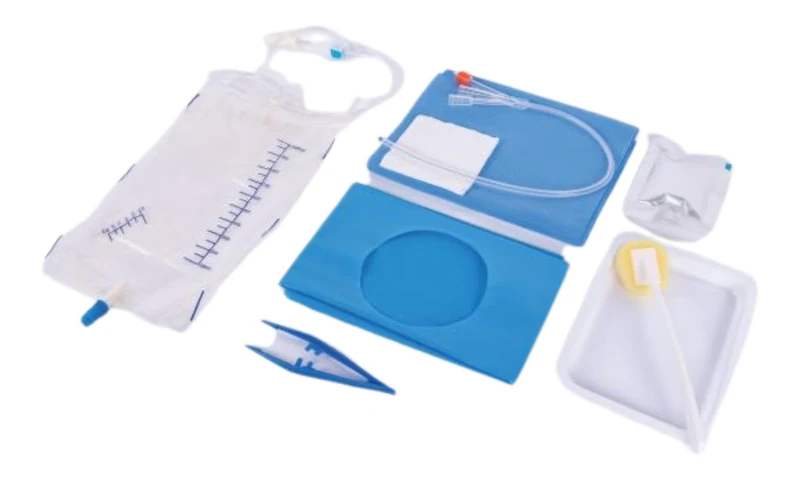
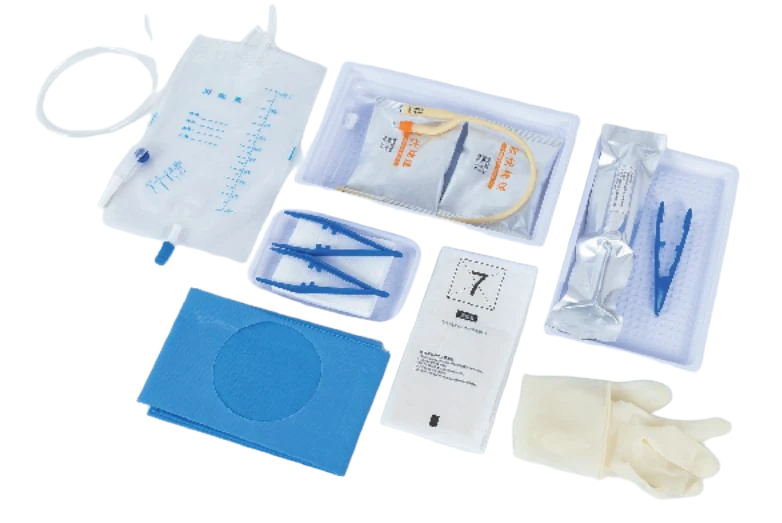
Replace QG-UR-002 kit photo with AI-matted transparent cutout

diff --git a/src/lib/products.ts b/src/lib/products.ts
@@ -794,8 +794,8 @@ export const categories: Category[] = [
       {
         code: "QG-UR-002",
         image: "/products/sku/qg-ur-002.webp",
-        imageW: 800,
-        imageH: 479,
+        imageW: 782,
+        imageH: 523,
         name: "Foley Catheter Kit",
         nameZh: "导尿包",
         slug: "foley-catheter-kit",
